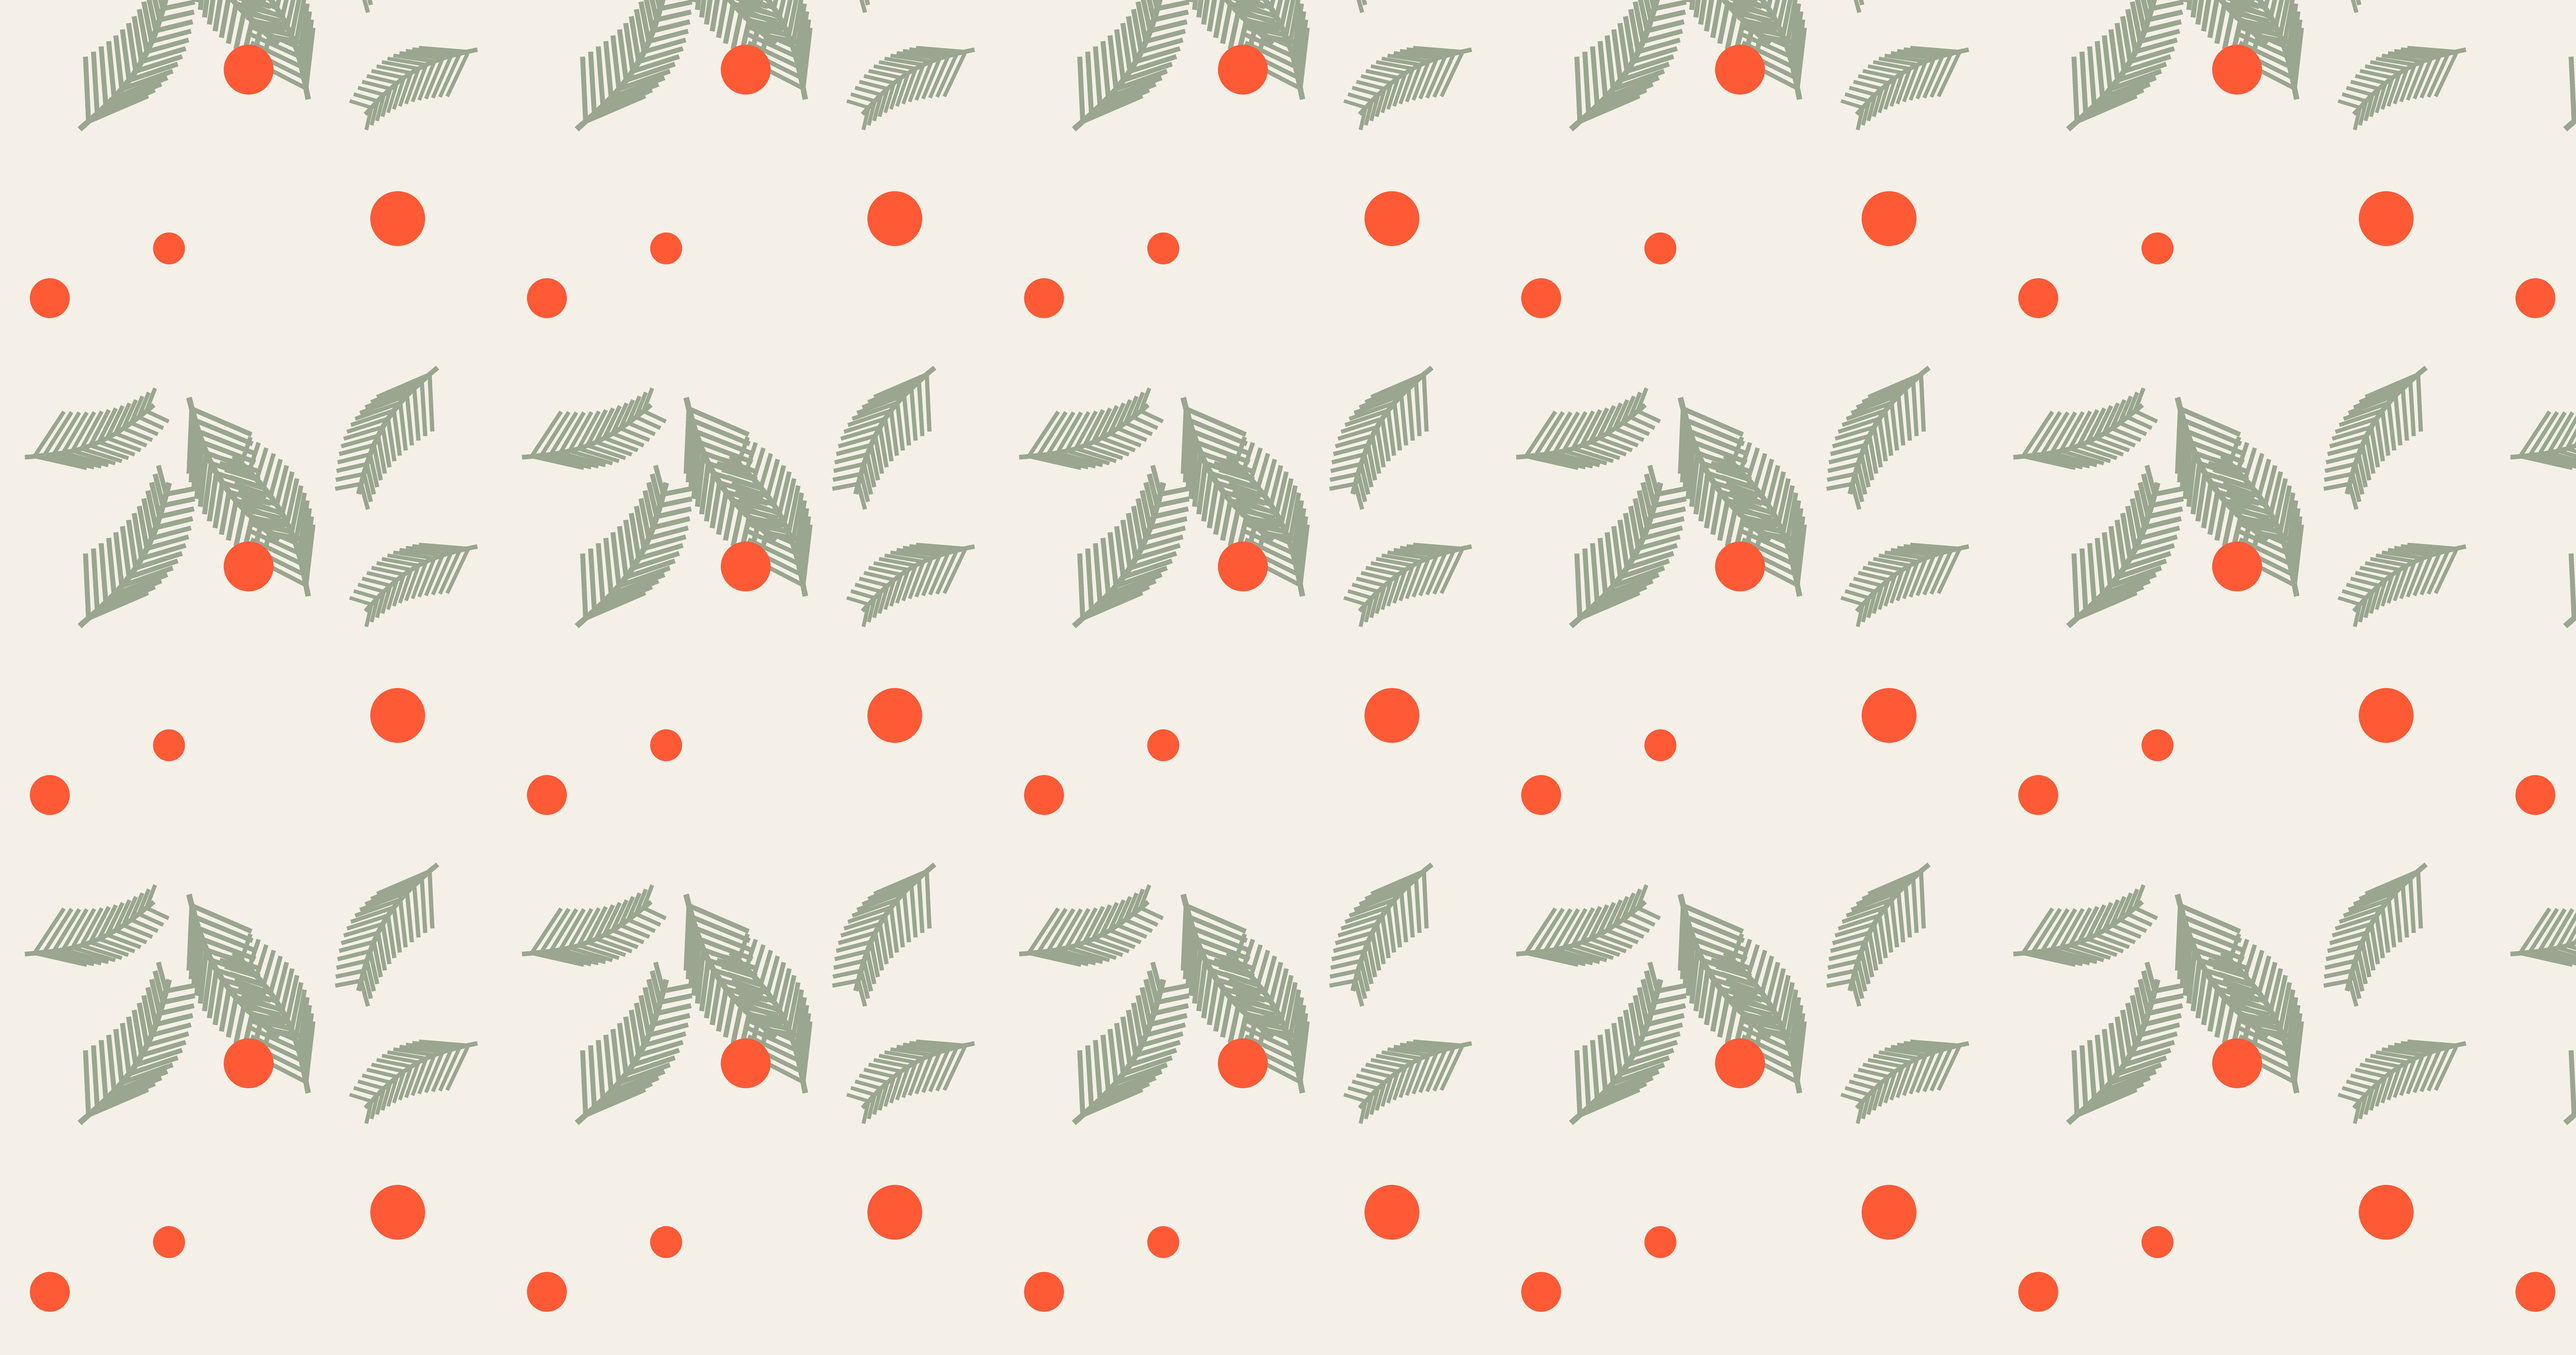
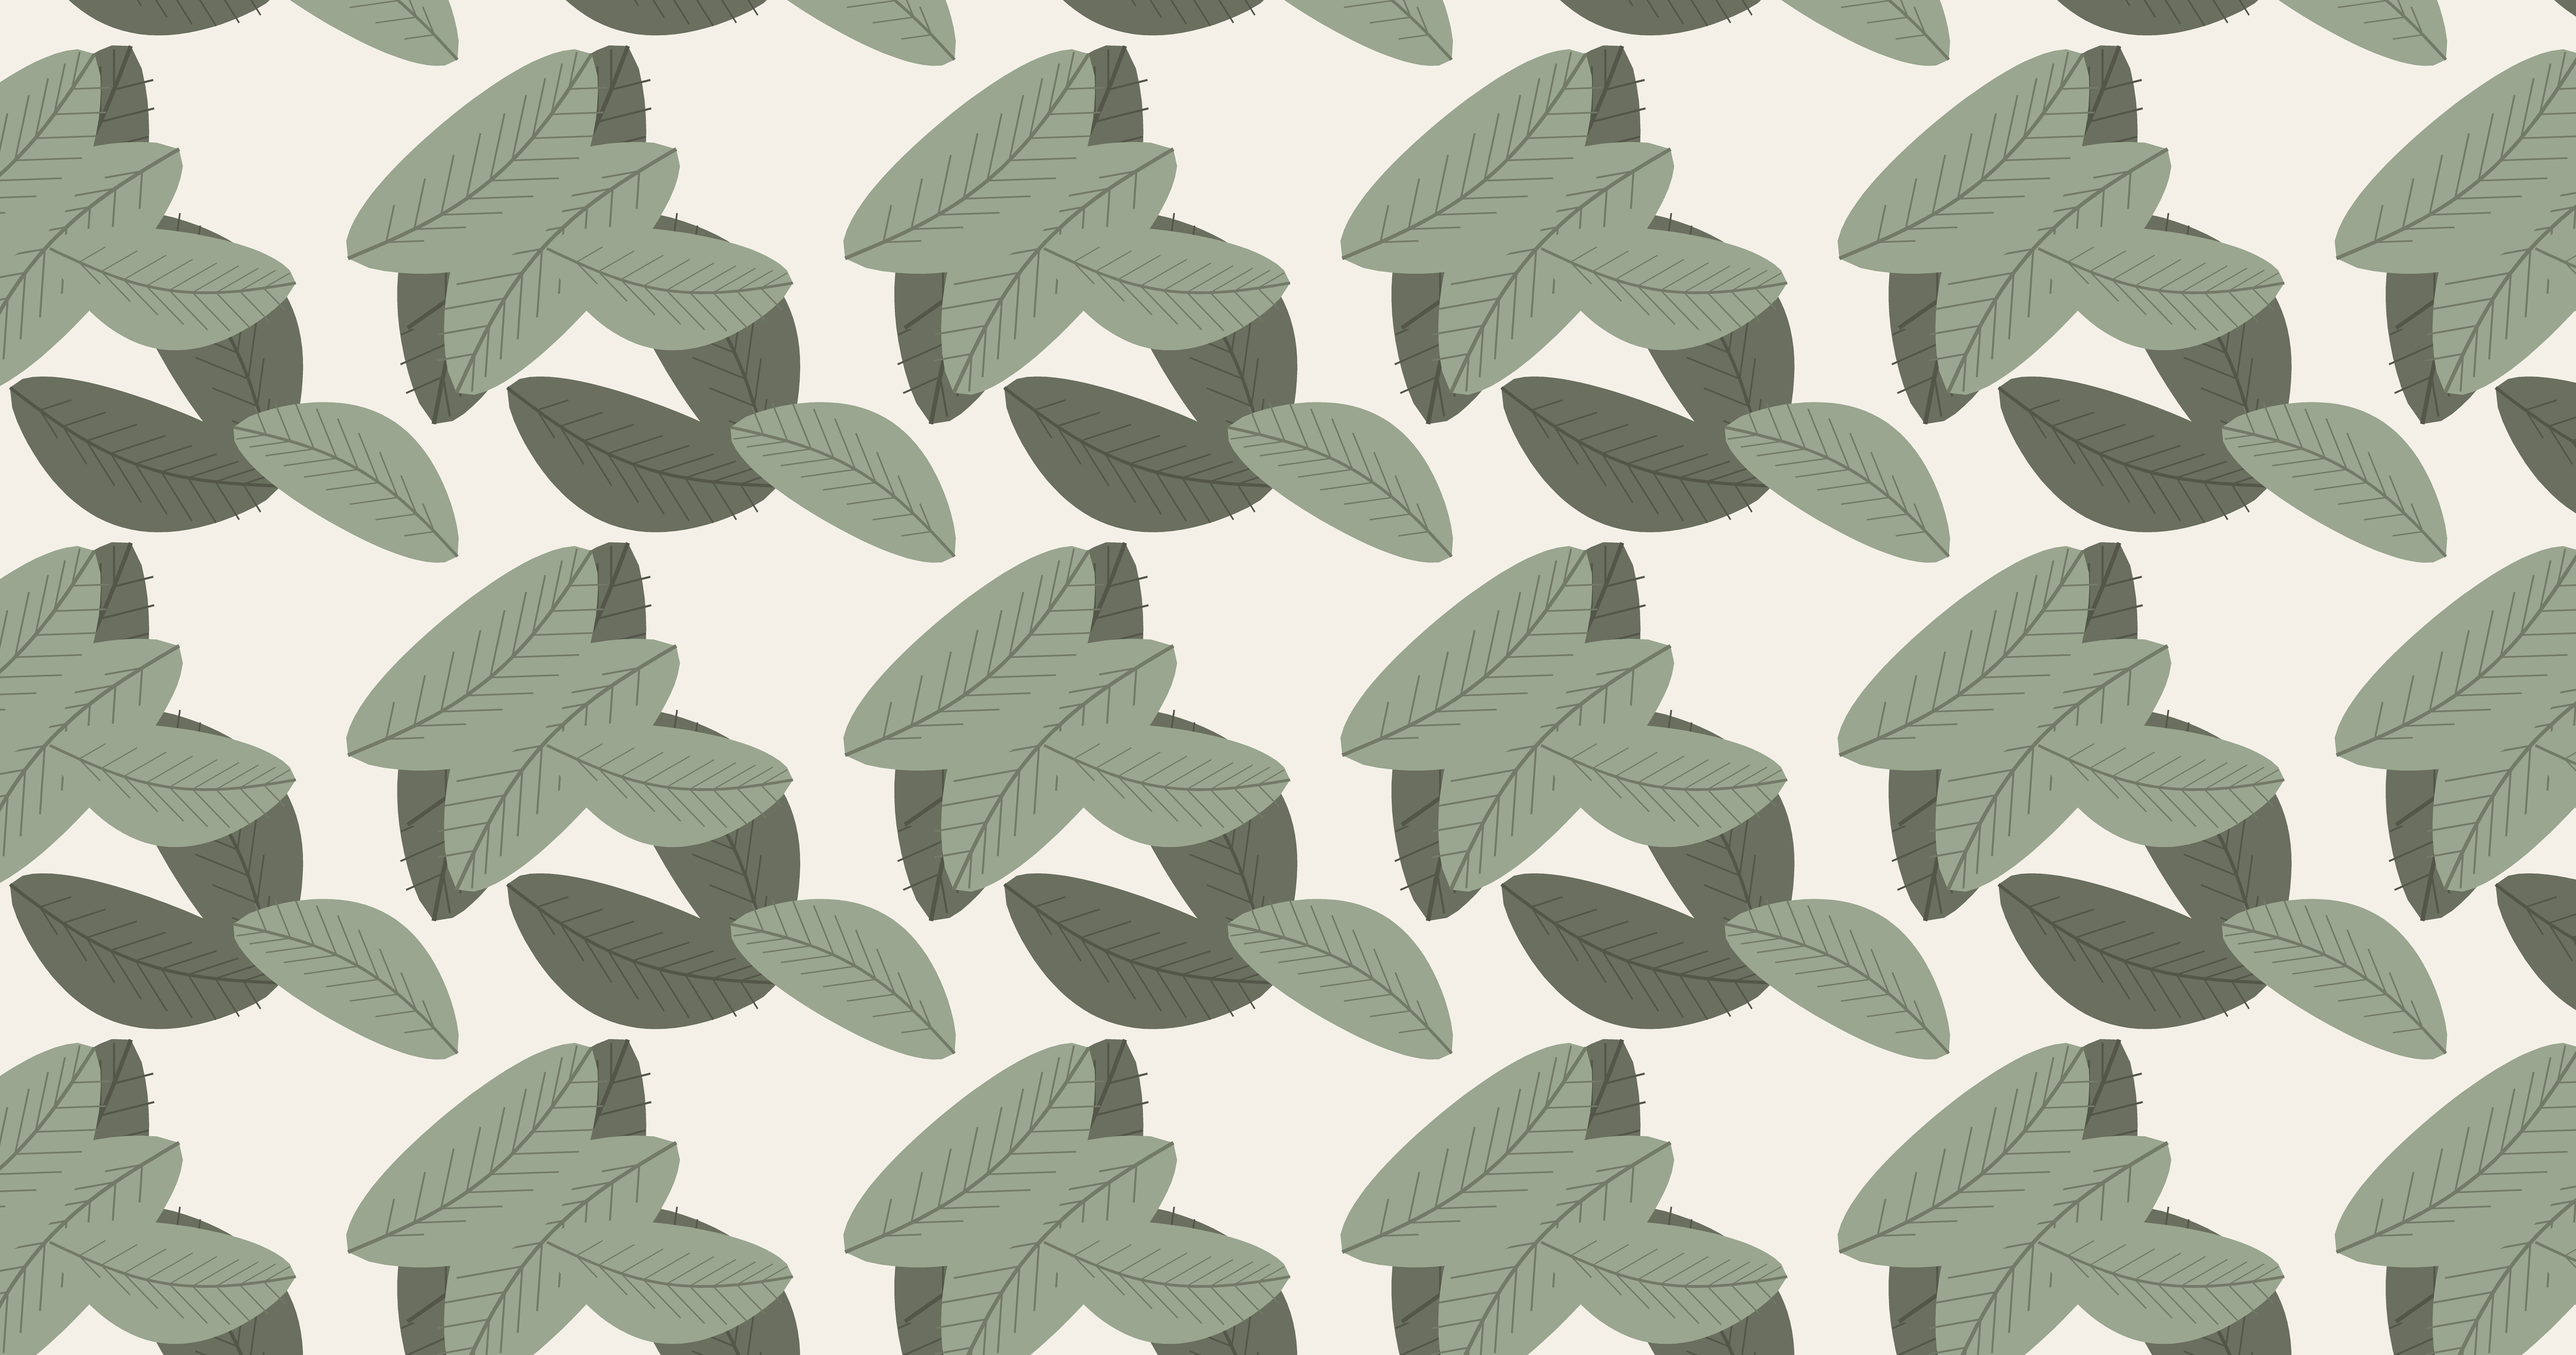
Redesign Palm print as overlapping banana-leaf botanical
Replace thin-frond + dot Palm with large overlapping lanceolate leaves
(midrib + veins) in two tonal greens on bone — luxe resort look.
Regenerate palm-core printfiles. Add _mix() colour helper.

Claude-Session: https://claude.ai/code/session_012Ro7nE8w8xabqixMQGwZGk

diff --git a/assets/scripts/generate_prints.py b/assets/scripts/generate_prints.py
@@ -35,6 +35,11 @@ def _hex(h):
     h = h.lstrip("#")
     return tuple(int(h[i:i + 2], 16) for i in (0, 2, 4))
 
+
+def _mix(a, b, t):
+    """Blend colour a→b by t (0..1)."""
+    return tuple(int(a[i] * (1 - t) + b[i] * t) for i in range(3))
+
 PALETTES = {
     # Default house colors, exactly as specified per print.
     "core": {
@@ -130,57 +135,55 @@ def print_sun(p, seed=7):
 
 
 def print_palm(p, seed=11):
-    """Olive fronds + small tangerine sun discs on bone."""
-    random.seed(seed)
+    """Large overlapping banana/palm leaves (lanceolate silhouettes with
+    midrib + veins) in two tonal greens on bone — luxe resort botanical."""
     img, d = _new_tile(p["bone"])
     s = SS
-
-    def draw_frond(dr, cx, cy, ang, length):
-        # central stem (gently bowed)
-        stem_w = max(3, int(length * 0.035))
-        pts = []
-        for i in range(21):
-            t = i / 20
-            bow = math.sin(t * math.pi) * length * 0.10
-            sx = cx + math.cos(ang) * length * t + math.cos(ang + math.pi / 2) * bow
-            sy = cy + math.sin(ang) * length * t + math.sin(ang + math.pi / 2) * bow
-            pts.append((sx, sy))
-        dr.line(pts, fill=p["olive"], width=stem_w, joint="curve")
-        # leaflets along the stem, shrinking toward the tip
-        n = 14
-        for i in range(1, n + 1):
-            t = i / (n + 1)
-            bow = math.sin(t * math.pi) * length * 0.10
-            px = cx + math.cos(ang) * length * t + math.cos(ang + math.pi / 2) * bow
-            py = cy + math.sin(ang) * length * t + math.sin(ang + math.pi / 2) * bow
-            leaf = length * 0.40 * (1 - t * 0.6)
-            for side in (-1, 1):
-                la = ang + side * math.radians(48) - (1 - t) * 0.25 * side
-                lx = px + math.cos(la) * leaf
-                ly = py + math.sin(la) * leaf
-                dr.line([px, py, lx, ly], fill=p["olive"],
-                        width=max(2, int(stem_w * 0.85)))
-
-    def draw_disc(dr, cx, cy, r):
-        dr.ellipse([cx - r, cy - r, cx + r, cy + r], fill=p["tang"])
-
     full = TILE * s
-    fronds = [
-        (full * 0.16, full * 0.26, math.radians(-58), full * 0.34),
-        (full * 0.62, full * 0.20, math.radians(-118), full * 0.32),
-        (full * 0.38, full * 0.80, math.radians(58), full * 0.34),
-        (full * 0.88, full * 0.74, math.radians(122), full * 0.30),
-        (full * 0.05, full * 0.92, math.radians(-22), full * 0.28),
-        (full * 0.96, full * 0.10, math.radians(150), full * 0.26),
-    ]
-    for (x, y, a, l) in fronds:
-        wrapped(draw_frond, x, y, full, d, a, l)
-    discs = [(full * 0.50, full * 0.14, full * 0.05),
-             (full * 0.10, full * 0.60, full * 0.04),
-             (full * 0.80, full * 0.44, full * 0.055),
-             (full * 0.34, full * 0.50, full * 0.032)]
-    for (x, y, r) in discs:
-        wrapped(draw_disc, x, y, full, d, r)
+    dark = _mix(p["olive"], p["ink"], 0.40)
+    mid = p["olive"]
+
+    def leaf(dr, cx, cy, ang, length, width, fill, vein):
+        ux, uy = math.cos(ang), math.sin(ang)
+        px, py = -uy, ux
+        spine = []
+        left, right = [], []
+        for i in range(33):
+            t = i / 32
+            bow = math.sin(t * math.pi) * length * 0.10
+            sx = cx + ux * length * t + px * bow
+            sy = cy + uy * length * t + py * bow
+            spine.append((sx, sy))
+            w = width * (math.sin(math.pi * t) ** 0.62)
+            left.append((sx + px * w, sy + py * w))
+            right.append((sx - px * w, sy - py * w))
+        dr.polygon(left + right[::-1], fill=fill)
+        # midrib
+        dr.line(spine, fill=vein, width=max(2, int(length * 0.012)), joint="curve")
+        # lateral veins
+        for i in range(4, 30, 3):
+            t = i / 32
+            sx, sy = spine[i]
+            w = width * (math.sin(math.pi * t) ** 0.62)
+            for side in (1, -1):
+                va = ang + side * math.radians(38)
+                ex = sx + math.cos(va) * w * 0.92
+                ey = sy + math.sin(va) * w * 0.92
+                dr.line([sx, sy, ex, ey], fill=vein, width=max(1, int(length * 0.006)))
+
+    # back layer (darker) then front layer (olive) — overlapping, sparse
+    for x, y, a, l, w in [(0.22, 0.20, 118, 0.74, 0.16),
+                          (0.82, 0.66, -52, 0.72, 0.16),
+                          (0.55, 0.95, -120, 0.6, 0.14),
+                          (0.02, 0.78, 20, 0.58, 0.13)]:
+        wrapped(leaf, full * x, full * y, full, d,
+                math.radians(a), full * l, full * w, dark, _mix(dark, p["ink"], 0.3))
+    for x, y, a, l, w in [(0.36, 0.30, 132, 0.66, 0.15),
+                          (0.70, 0.52, -40, 0.64, 0.15),
+                          (0.10, 0.50, 8, 0.5, 0.12),
+                          (0.92, 0.12, -150, 0.52, 0.12)]:
+        wrapped(leaf, full * x, full * y, full, d,
+                math.radians(a), full * l, full * w, mid, _mix(mid, p["ink"], 0.32))
     return _finish(img)
 
 
